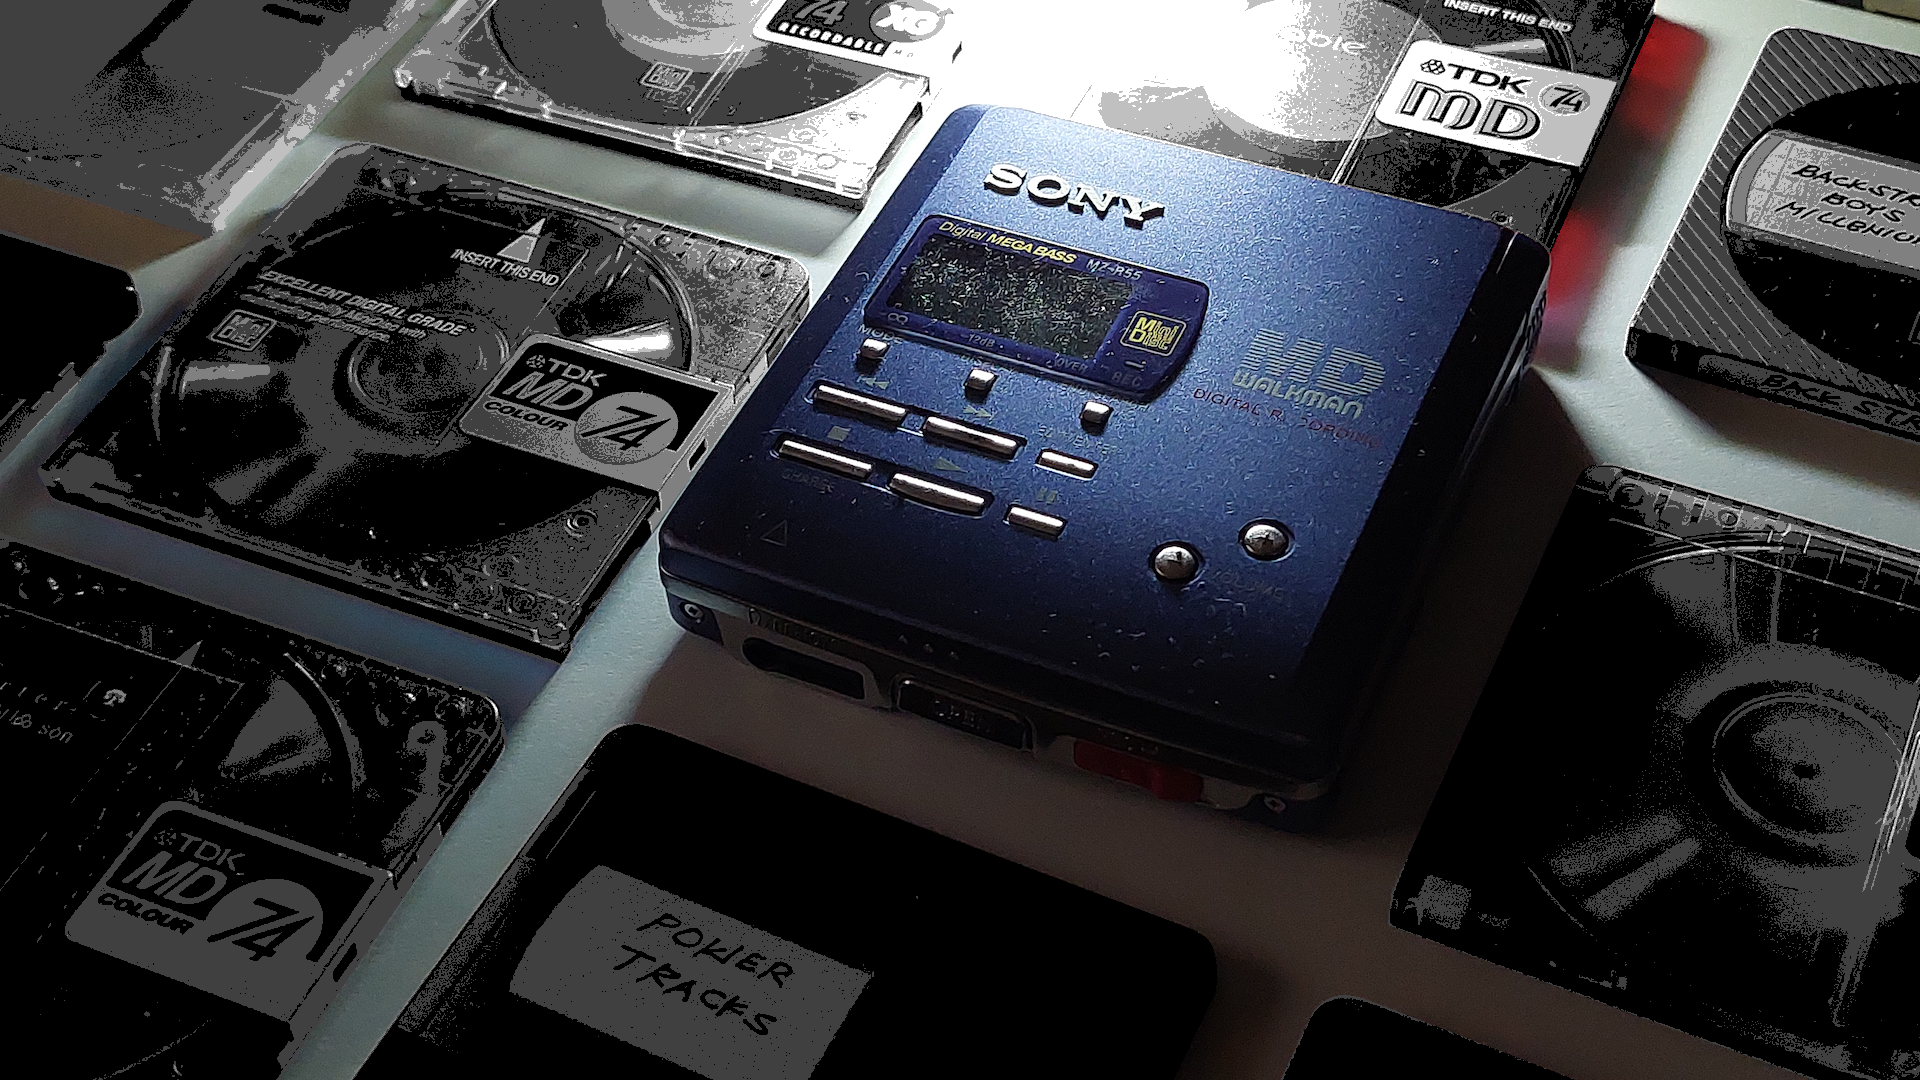
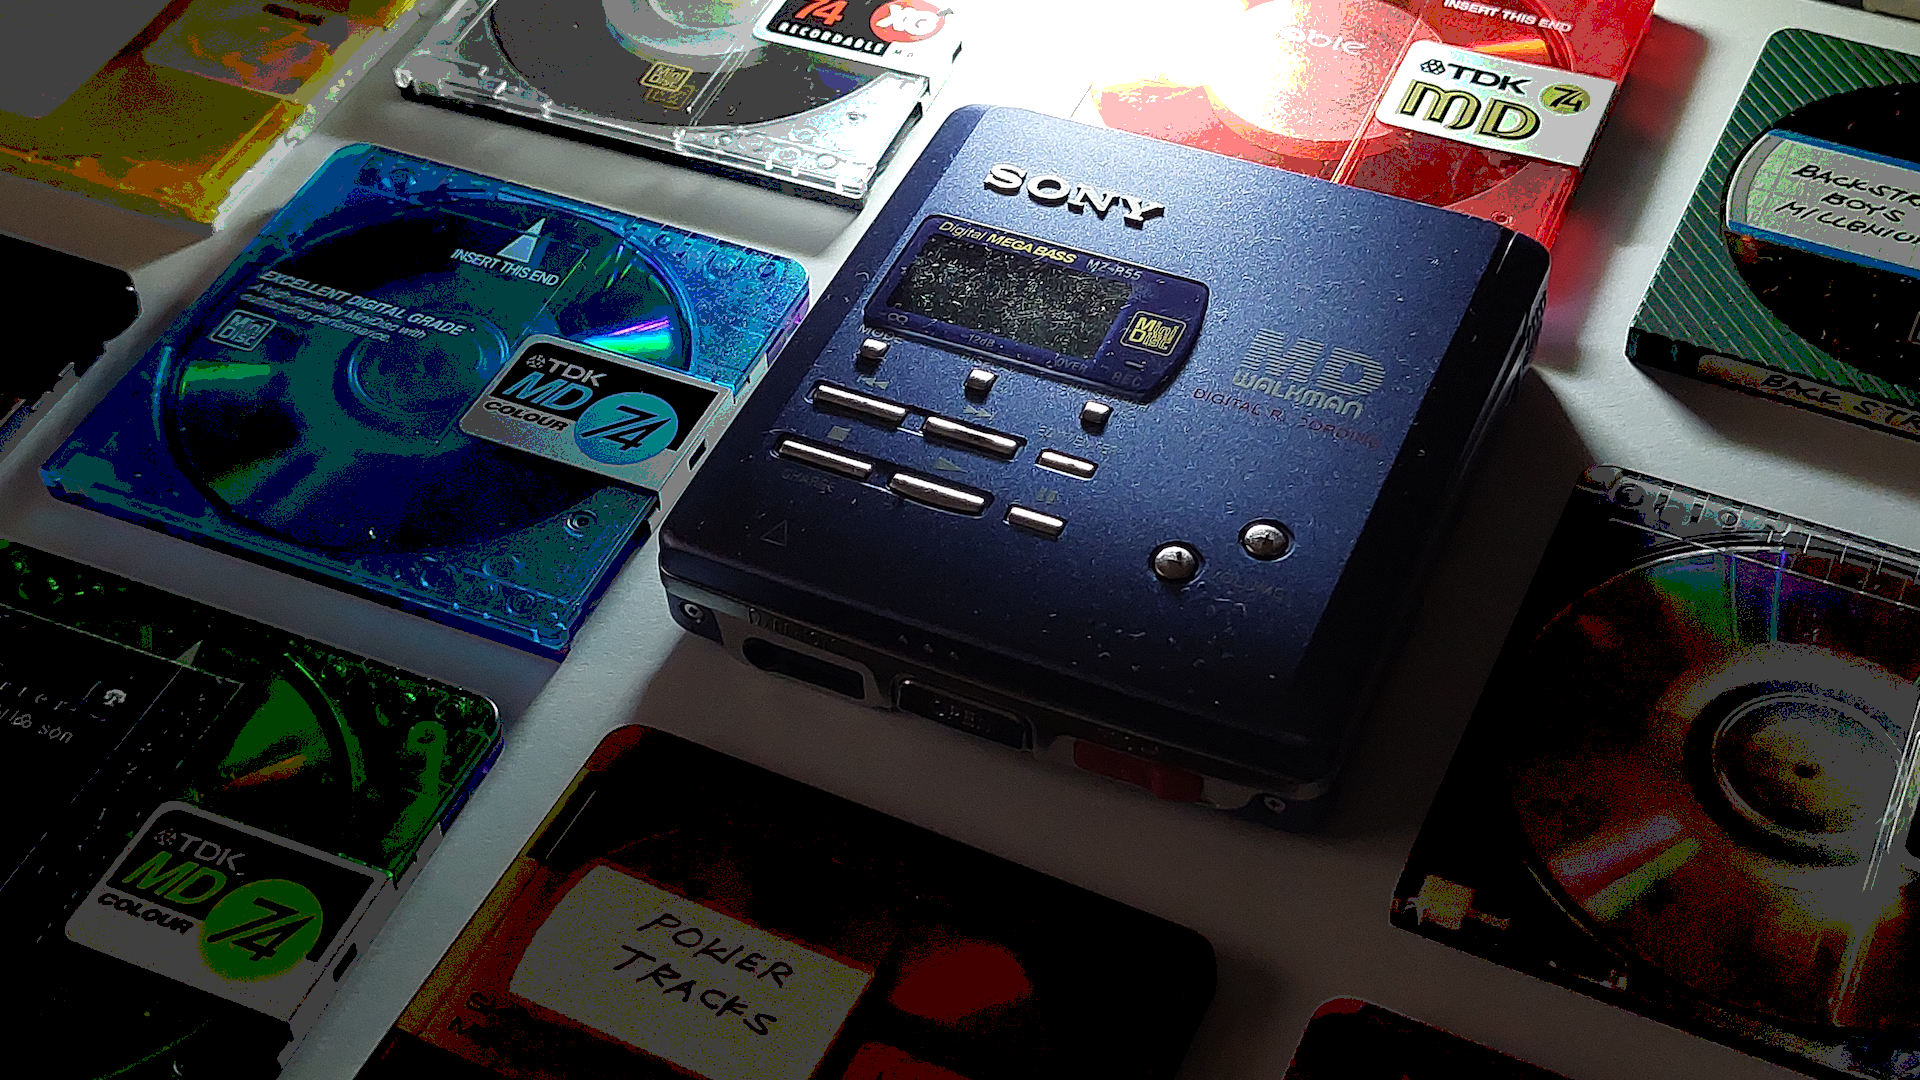
changed some output images

diff --git a/sketch.js b/sketch.js
@@ -2,9 +2,9 @@ let sourceImg=null;
 let maskImg=null;
 
 // change these three lines as appropiate
-let sourceFile = "input_4.jpg";
-let maskFile   = "mask_4.png";
-let outputFile = "output_3.png";
+let sourceFile = "input_5.jpg";
+let maskFile   = "mask_5.png";
+let outputFile = "output_5.png";
 
 function preload() {
   sourceImg = loadImage(sourceFile);
@@ -41,15 +41,15 @@ function draw () {
         pix = sourceImg.get(i,j);
 
         let newCol = [0, 0, 0, 255];
-        newCol[0] = map(0, 0, 100, (Math.round(4*pix[0]/255)*64), 255);
         newCol[1] = map(0, 0, 100, (Math.round(4*pix[1]/255)*64), 255);
+        newCol[0] = map(0, 0, 100, (Math.round(4*pix[0]/255)*64), 255);
         newCol[2] = map(0, 0, 100, (Math.round(4*pix[2]/255)*64), 255);
     
         // uncomment to use colour version of renderer.
-        // set(i,j,newCol);
+        set(i,j,newCol);
 
         // uncomment to use greyscale version of renderer.
-        set(i, j, (Math.round(4*pix[2]/255)*64));
+        // set(i, j, (Math.round(4*pix[2]/255)*64));
       }
 
       else {
@@ -64,7 +64,7 @@ function draw () {
   if(renderCounter > Y_STOP) {
     console.log("Done!");
     noLoop();
-    // saveArtworkImage(outputFile);
+    saveArtworkImage(outputFile);
   }
 }
 
@@ -75,22 +75,3 @@ function keyTyped() {
     saveBlocksImages();
   }
 }
-
-    // for(let i=0;i<20736;i++) {
-    //   let x = floor(random(sourceImg.width));
-    //   let y = floor(random(sourceImg.height));
-    //   let pix = sourceImg.get(x, y);
-    //   let mask = maskImg.get(x, y);
-    //   fill(pix);
-    //   if(mask[0] < 128) {
-    //     let pointSize = 10;
-    //     ellipse(x, y, pointSize, pointSize);
-    //   }
-    // }
-    // renderCounter = renderCounter + 1;
-    // if(renderCounter > 20) {
-    //   console.log("Done!")
-    //   noLoop();
-    //   // uncomment this to save the result
-    //   // saveArtworkImage(outputFile);
-    // }

diff --git a/README.md b/README.md
@@ -6,4 +6,4 @@ The images shown are ones of the now obselete "MiniDisc" music format, introduce
 
 My effect is meant to represent how computer graphics looked in the early 90s when MiniDisc was first introduced. Colour was very limited as some machines can only render up four thousand colours, as opposed to the sixteen-or-so million that modern machines can display. I've exaggeratted this effect so that my images only use four grey scale colours.
 
-The masks for each image have this particular effect applied to showcase how these objects are a relic of a not-so-distant past. If there as a single disc present in the image, I applied a tint according to the discs original colour to add more visual interest.
+The masks for each image have this particular effect applied to showcase how these objects are a relic of a not-so-distant past. I have a colour and colourless version of the generator.
